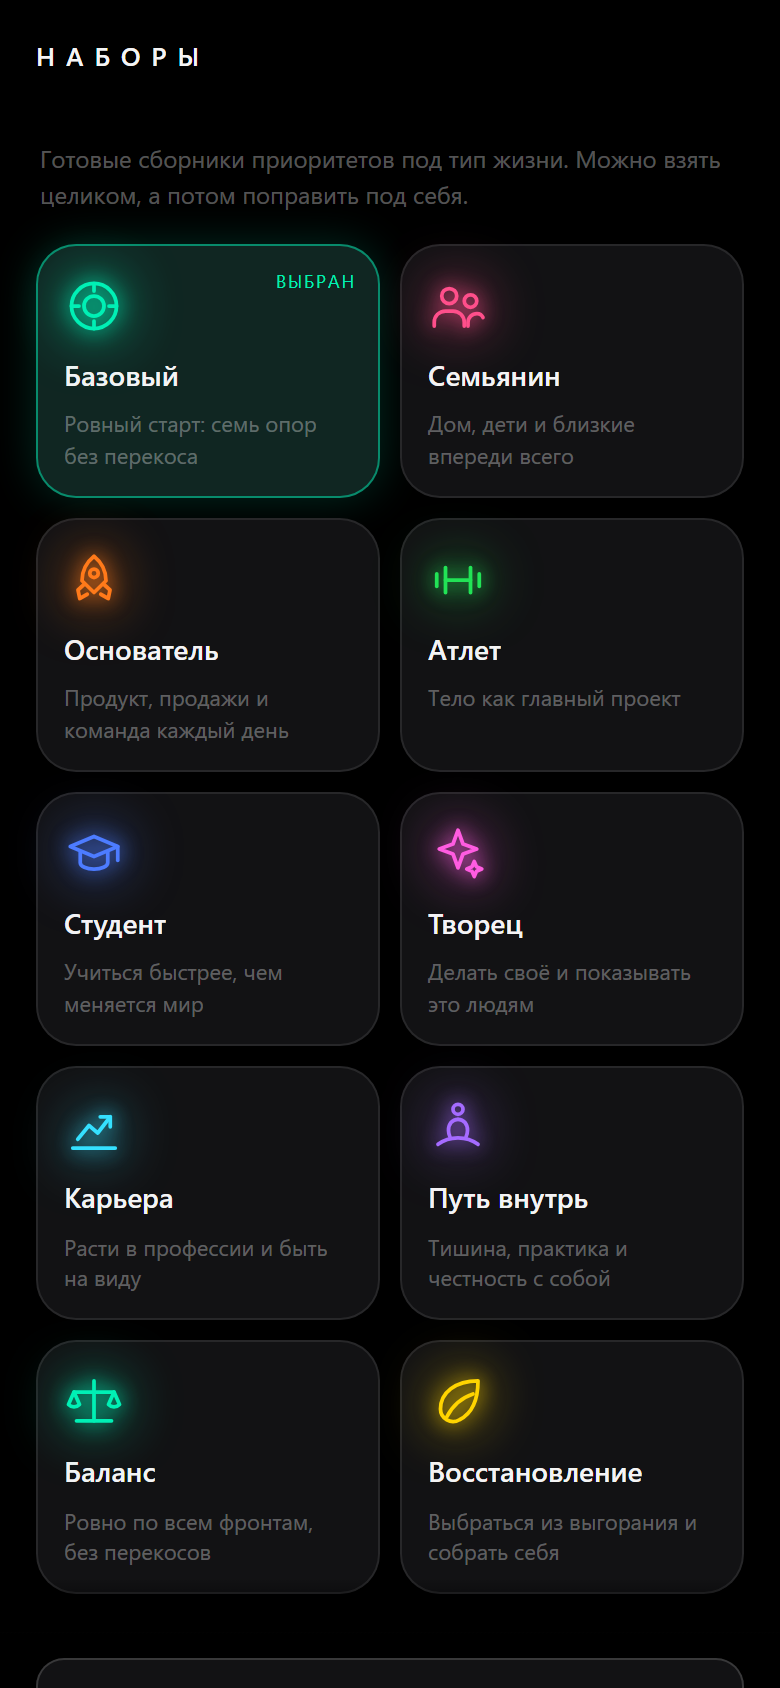
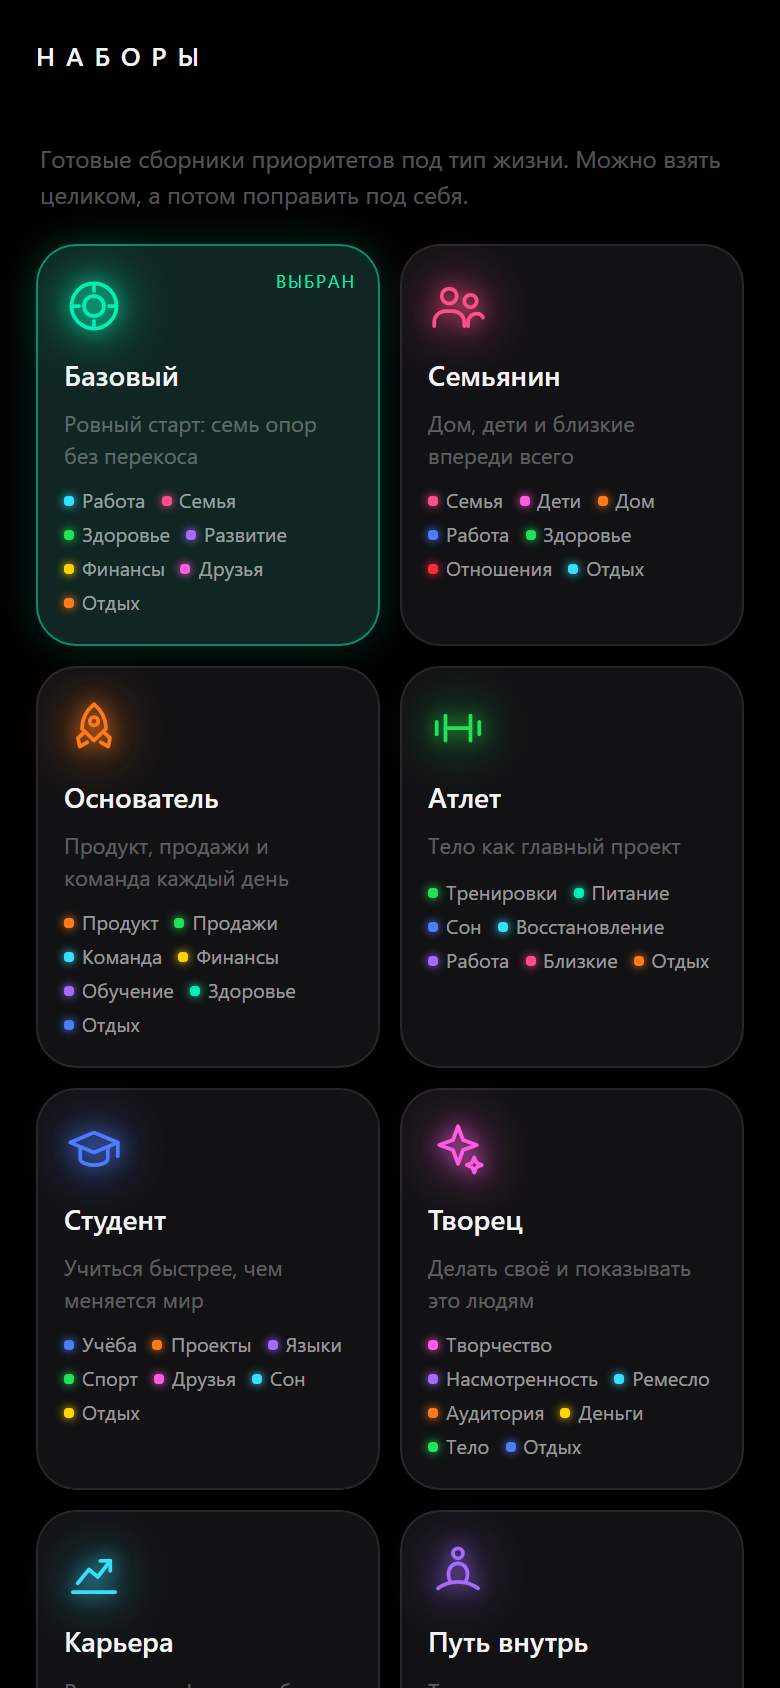
Набор объясняет себя составом, а не отметкой «из демо»
Пометка набора, на котором построено демо, снята: она подсказывала выбор,
но не объясняла его — человек всё равно правит приоритеты под себя. Вместо
неё на каждой карточке видно, что в наборе: семь приоритетов в том порядке,
в каком они встанут на главной, с цветом каждого.

Список наборов снова один и тот же на любом входе: порядок прежний,
подпись только у выбранного.

diff --git a/src/screens/PresetsScreen.tsx b/src/screens/PresetsScreen.tsx
@@ -1,11 +1,9 @@
 import { useState } from 'react';
 
 import { Sheet } from '../components/Sheet';
-import { FROM_DEMO } from '../demo/mode';
-import { findProfile } from '../demo/profiles';
 import { colorOf } from '../domain/palette';
 import { PRESETS, type Preset } from '../domain/presets';
-import { t, type StringKey } from '../i18n';
+import { t } from '../i18n';
 import { useStore } from '../store/useStore';
 import { confirmDialog, haptics } from '../telegram/sdk';
 import './PresetsScreen.css';
@@ -16,38 +14,9 @@ interface Props {
   intro?: boolean;
 }
 
-/**
- * Набор, на котором построено демо, из которого человек только что вышел.
- *
- * Считается один раз на модуль: и адрес, и профили неизменны за сеанс.
- * `undefined` — обычный вход, список остаётся ровно тем же, что был.
- */
-const SUGGESTED = findProfile(FROM_DEMO)?.script.presetId;
-
-/**
- * Тот же список, но предложенный набор впереди.
- *
- * Порядок остальных не меняется — они сдвигаются на одну позицию, и только.
- * Отметить, не подняв, значило бы не отметить вовсе: набор демо «Выгорание»
- * стоит в списке десятым, то есть ниже сгиба на любом экране.
- */
-const ORDERED = SUGGESTED
-  ? [...PRESETS].sort((a, b) => Number(b.id === SUGGESTED) - Number(a.id === SUGGESTED))
-  : PRESETS;
-
 export function PresetsScreen({ onApplied, intro = false }: Props): JSX.Element {
   const { settings, actions } = useStore();
   const [preview, setPreview] = useState<Preset | null>(null);
-
-  /* Подсказка живёт только на первом запуске: сборники, открытые из настроек,
-     к чужой ссылке отношения не имеют. */
-  const suggested = intro ? SUGGESTED : undefined;
-  const cards = suggested ? ORDERED : PRESETS;
-  const hint: StringKey = suggested
-    ? 'presets.introFromDemo'
-    : intro
-      ? 'presets.intro'
-      : 'presets.hint';
 
   const apply = (preset: Preset): void => {
     void (async () => {
@@ -69,35 +38,47 @@ export function PresetsScreen({ onApplied, intro = false }: Props): JSX.Element 
       </header>
 
       <div className="app__body">
-        <p className="edit__hint">{t(hint)}</p>
+        <p className="edit__hint">{intro ? t('presets.intro') : t('presets.hint')}</p>
 
         <ul className="presets">
-          {cards.map((preset) => {
-            /* Предложенный и выбранный не встречаются: на первом запуске
-               выбранного ещё нет, а вне его нет предложенного. */
-            const badge: StringKey | undefined =
-              preset.id === suggested
-                ? 'presets.fromDemo'
-                : settings.presetId === preset.id
-                  ? 'presets.current'
-                  : undefined;
+          {PRESETS.map((preset) => (
+            <li key={preset.id}>
+              <button
+                className={`pcard press${settings.presetId === preset.id ? ' pcard--current' : ''}`}
+                type="button"
+                style={{ '--accent': colorOf(preset.accentId).hex } as React.CSSProperties}
+                onClick={() => setPreview(preset)}
+              >
+                <PresetIcon preset={preset} />
+                <span className="pcard__name">{t(preset.nameKey)}</span>
+                <span className="pcard__tagline">{t(preset.taglineKey)}</span>
 
-            return (
-              <li key={preset.id}>
-                <button
-                  className={`pcard press${badge ? ' pcard--current' : ''}`}
-                  type="button"
-                  style={{ '--accent': colorOf(preset.accentId).hex } as React.CSSProperties}
-                  onClick={() => setPreview(preset)}
-                >
-                  <PresetIcon preset={preset} />
-                  <span className="pcard__name">{t(preset.nameKey)}</span>
-                  <span className="pcard__tagline">{t(preset.taglineKey)}</span>
-                  {badge && <span className="pcard__badge">{t(badge)}</span>}
-                </button>
-              </li>
-            );
-          })}
+                {/*
+                  Что человек получит, если возьмёт этот набор, — прямо на
+                  карточке и в том же порядке, в каком приоритеты встанут на
+                  главной. Типаж одной строкой («Тело как главный проект»)
+                  говорит, про кого набор, но не про то, что появится на
+                  экране; названия говорят.
+                */}
+                <span className="pcard__list">
+                  {preset.priorities.map((item) => (
+                    <span
+                      key={item.titleKey}
+                      className="pcard__item"
+                      style={{ '--accent': colorOf(item.colorId).hex } as React.CSSProperties}
+                    >
+                      <span className="swatch pcard__dot" />
+                      {t(item.titleKey)}
+                    </span>
+                  ))}
+                </span>
+
+                {settings.presetId === preset.id && (
+                  <span className="pcard__badge">{t('presets.current')}</span>
+                )}
+              </button>
+            </li>
+          ))}
         </ul>
       </div>
 

diff --git a/src/i18n/ru.ts b/src/i18n/ru.ts
@@ -77,10 +77,8 @@ export const ruStrings = {
   // --- Наборы ---
   'presets.title': 'Наборы',
   'presets.intro': 'С чего начнём? Возьми готовый сборник под свой тип жизни — потом всё можно переставить, переименовать и перекрасить.',
-  'presets.introFromDemo': 'Набор, на котором построено демо, уже отмечен — с него удобно начать. Любой другой берётся так же, одним касанием, и потом всё переставляется, переименовывается и перекрашивается.',
   'presets.hint': 'Готовые сборники приоритетов под тип жизни. Можно взять целиком, а потом поправить под себя.',
   'presets.current': 'Выбран',
-  'presets.fromDemo': 'Из демо',
   'presets.apply': 'Применить набор',
   'presets.applyConfirm': 'Заменить текущие приоритеты набором «{name}»? Накопленное время сохранится — совпадающие по названию приоритеты продолжат свою историю.',
 

diff --git a/src/i18n/en.ts b/src/i18n/en.ts
@@ -82,10 +82,8 @@ export const enStrings = {
   // --- Presets ---
   'presets.title': 'Presets',
   'presets.intro': 'Where do we start? Take a ready-made set that fits your kind of life — you can reorder, rename and recolor all of it later.',
-  'presets.introFromDemo': 'The set the demo was built on is already marked — an easy place to start. Any other one is the same single tap away, and all of it can be reordered, renamed and recolored later.',
   'presets.hint': 'Ready-made priority sets for different kinds of life. Take one whole, then tune it to yourself.',
   'presets.current': 'In use',
-  'presets.fromDemo': 'From the demo',
   'presets.apply': 'Use this set',
   'presets.applyConfirm': 'Replace your current priorities with “{name}”? Collected time stays — priorities whose names match keep their history.',
 

diff --git a/src/screens/PresetsScreen.css b/src/screens/PresetsScreen.css
@@ -45,6 +45,31 @@
   color: var(--text-faint);
 }
 
+/* Состав набора на карточке: приоритеты в том же порядке, в каком они встанут
+   на главной. Мелко и врассыпную — это опись, а не заголовок. */
+.pcard__list {
+  display: flex;
+  flex-wrap: wrap;
+  gap: 2px 8px;
+  margin-top: 2px;
+}
+
+.pcard__item {
+  display: inline-flex;
+  align-items: center;
+  gap: 4px;
+  font-size: 10px;
+  line-height: 1.5;
+  color: var(--text-dim);
+}
+
+.pcard__dot {
+  width: 5px;
+  height: 5px;
+  border-radius: 2px;
+  box-shadow: 0 0 5px var(--accent);
+}
+
 .pcard__badge {
   position: absolute;
   top: 12px;
